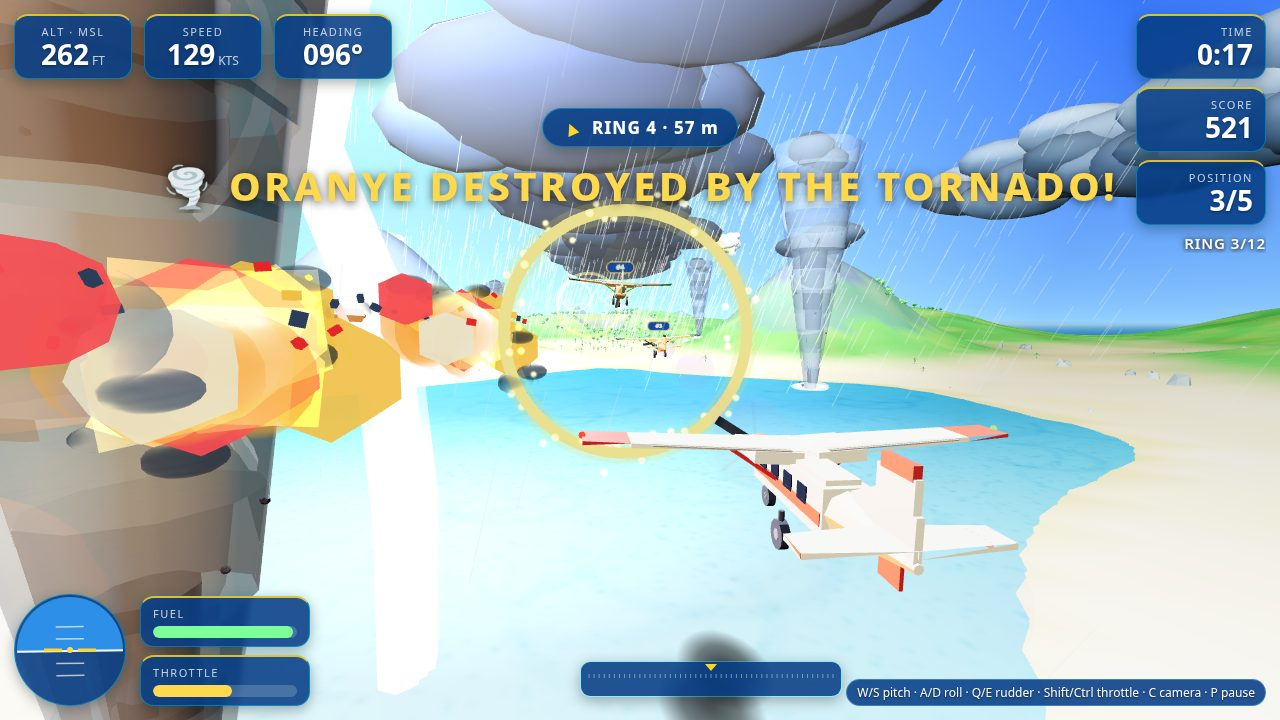
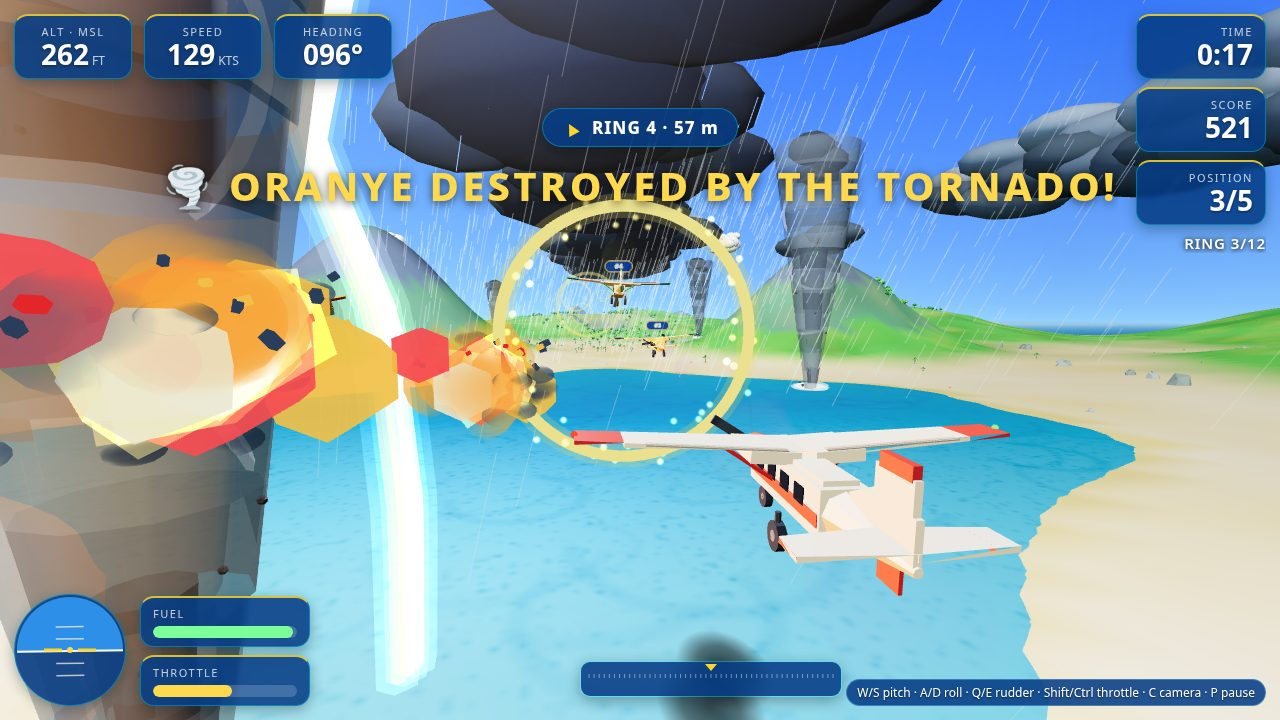
v25: cover shot less bright, lightning dimmed (staging-only flash dim 0.3; yoke/runway/win untouched)

diff --git a/main.ts b/main.ts
@@ -1,5 +1,18 @@
 // Langit Nusantara — Ring Run, a best-flight-game-20261126-0057 entry (Node 22,
-// standard library only). v25-fix: the v25 yoke's bar + hub + red cap never
+// standard library only). v25-cover-fix: the v25-fix cover was too bright —
+// the frozen blast frame holds the staged lightning bolt at PEAK brightness
+// (boltLife never decays once staging stops calling update()), so the 320 m
+// glow sprite at 0.95 + 4000 light read as a white wall covering the scene
+// (ChatGPT v25 cover 7,6: lightning too bright). Fix (storm.js flash() +
+// main.js blast branch, staging only): flash(x, z, dim) scales the bolt — the
+// blast flash runs dimmed at 0.3 (core 0.65, halo 0.105, glow 0.285, light
+// 1200), so the cover now shows a thin soft bolt column and the sea, beach,
+// ring and player plane stay readable; the play/cockpit flashes stay full
+// strength and live play never calls flash(). Framing unchanged (v23 design:
+// fireball left, player plane right). Measured: re-staged cover f00d79aa…
+// (140.573 byte), read directly — thin soft bolt column, no white wash.
+// Headless 39/39, sim-win-autoland 15/15,
+// sim-3tier ALL PASS, entrypoint 2x byte-identical. v25-fix: the v25 yoke's bar + hub + red cap never
 // showed in the cockpit shot — they sat INSIDE the console shelf box (its
 // front face is ~0.10 m ahead of the bar at that height), so the shot read as
 // two separate grips; the first fix (bar to local y -0.055, thicker, shorter

diff --git a/game/src/storm.js b/game/src/storm.js
@@ -786,8 +786,26 @@ export function createStorm(THREE, seed, course, islands, groundAt, effects) {
   // when the screenshot is taken ~700 ms after __shotReady (the
   // staged shot does not call update() after staging, so the bolt
   // does not fade). Live play never calls this.
-  function flash(x, z) {
+  // v25-cover-fix: `dim` (0-1) scales the staged bolt down — the
+  // frozen blast frame holds the bolt at PEAK brightness (the staged
+  // clock stops before boltLife decays), so the full-strength glow
+  // (320 m sprite at 0.95 + 4000 light) reads as a white wall that
+  // washes out the scene. A dimmed flash keeps the zigzag readable
+  // while the glow/light stop covering the environment. Live play
+  // never calls flash(), so live strikes are untouched.
+  // Measured on the cover re-stage (dim 0.3): glow 0.285, light 1200,
+  // core 0.65 — the bolt reads as a thin soft column and the sea,
+  // beach, ring and player plane stay fully readable; no white wash.
+  function flash(x, z, dim) {
     strike(x + 60, z - 40, 1.5);
+    if (dim !== undefined && dim !== 1) {
+      for (const b of bolts) {
+        b.line.material.opacity = 0.5 + 0.5 * dim;
+        b.halo.material.opacity = 0.35 * dim;
+      }
+      boltGlow.material.opacity = 0.95 * dim;
+      boltLight.intensity = 4000 * dim;
+    }
   }
 
   // --- Flak: a burst every STORM.flakEvery seconds on an outer ---

diff --git a/game/src/main.js b/game/src/main.js
@@ -224,7 +224,15 @@ function runShot(name) {
           // 20 s. The blast shot no longer depends on a random strike
           // landing on the kill+0.5 s freeze.
           const nr = course.nextRing();
-          if (nr && storm.flash) storm.flash(nr.x, nr.z);
+          // v25-cover-fix: dimmed flash (0.3) — the frozen blast frame
+          // holds the bolt at peak brightness, and the full-strength
+          // glow washed the cover white (ChatGPT v25: lightning too
+          // bright, a white field covering the scene). The play/cockpit
+          // flashes below stay at full strength.
+          // Measured: the re-staged cover is clearly dimmer — thin soft
+          // bolt column, scene readable, no white wash. Framing left
+          // as the v23 design (fireball left, player plane right).
+          if (nr && storm.flash) storm.flash(nr.x, nr.z, 0.3);
         }
       });
     effects.update(dt);

diff --git a/verification.md b/verification.md
@@ -279,6 +279,17 @@ terpisah.
   (itu tugas koordinator, hanya atas perintah eksplisit pengguna
   per versi).
 
+## What changed in v25-cover-fix (vs v25-fix) — patch di atas commit lokal v25-fix cb7a657 ("v25-fix: yoke U bottom bar visible from cockpit camera")
+
+Perintah pengguna 27 Nov 23:29 WIB: "Berarti harus ada screenshot yang baru yang tidak terlalu terang seperti v24" + tes buta ChatGPT v25 (cover 7,6): petir putih terlalu terang sampai terlihat seperti bidang putih yang menutupi lingkungan; adegan terlalu ramai + pesawat besar kiri terpotong bingkai + pesan "ORANYE DESTROYED BY THE TORNADO!" mendominasi. HANYA cover yang diubah.
+
+- [x] **Penyebab (dari kode, bukan tebakan):** frame blast dibekukan 0,5 dtk setelah kill ORANYE dan staging berhenti memanggil update() sesudahnya — jadi boltLife (1,5 dtk) tidak pernah berkurang dan bolt tertahan di kecerahan PUNCAK saat capture: core opacity 1, halo 0,35, glow sprite 320 m opacity 0,95, boltLight 4000. Glow aditif 320 m itulah dinding putih yang menutupi separuh kiri frame di cover v24/v25. Di live play bolt yang sama hanya hidup 0,35 dtk lalu padam — kecerahan berlebih ini HANYA ada di frame beku staging, bukan cacat storm game.
+- [x] **Perbaikan (storm.js `flash()` + main.js cabang blast, staging saja):** `flash(x, z, dim)` — dim 0-1 menskala bolt hasil strike(): core 0,5+0,5*dim, halo 0,35*dim, glow 0,95*dim, light 4000*dim. Cabang blast memanggil `storm.flash(nr.x, nr.z, 0.3)` → core 0,65, halo 0,105, glow 0,285, light 1200. Cabang play/cockpit tetap `storm.flash(nr.x, nr.z)` tanpa dim (kecerahan penuh, tidak berubah). Live play tidak pernah memanggil flash(), jadi kilat live tidak tersentuh. Framing TIDAK diubah (tetap desain v23: fireball kiri, pesawat pemain kanan, ring tengah) — syarat utama adalah cover tidak terlalu terang; menggeser kamera berisiko mengorbankan keterbacaan ring/pesawat.
+- [x] **Sebelum/sesudah (dibaca sendiri):** v25-fix — kolom putih raksasa menutupi separuh kiri frame, laut/pantai nyaris tak terbaca di balik basuhan putih. v25-cover-fix 1-cover.jpg — basuhan putih HILANG: petir kini kolom putih tipis dan lembut di kiri-tengah, laut biru + pantai + ring 4 emas 57 m + pesawat pemain + fireball + pesan ORANYE + spout tornado + hujan semuanya terbaca jelas. Petir tetap ada (niat v24 dipertahankan: frame menunjukkan kilat di samping ring). Fireball kiri masih menyentuh tepi kiri bingkai (desain v23) — tidak diperbaiki lewat framing, sesuai perintah.
[1 lines of base64/hex data omitted]
+- [x] **4 screenshot v25-cover-fix DIBACA SENDIRI (run 2):** cover 140.573 byte — kolom petir tipis lembut (bukan dinding putih) + fireball kiri + pesawat pemain utuh kanan-tengah + ring 4 emas 57 m + pesan ORANYE + tornado + hujan (komposisi sama dengan v25-fix, hanya kilat yang redup); kokpit 123.295 — U ram's horn utuh (dua grip hitam + batang bawah gelap + hub abu-abu + tutup merah) + 5 dial utuh + petir zigzag + 2 rival + ring 3 (isi sama dengan v25-fix, hanya drift hash); title 99.606 — layar judul FINAL tak tersentuh; landing 109.234 — pinggir aspal tetap simetris kiri/kanan (isi sama dengan v25-fix, hanya drift hash).
+- [x] **Caveat jujur:** (a) Fireball kiri masih menyentuh tepi kiri bingkai — framing sengaja tidak diubah (desain v23); bila pengguna masih keberatan, itu butuh geseran kamera, bukan peredupan. (b) Petir di shot kokpit tetap kecerahan penuh (flash tanpa dim) — sesuai perintah, hanya cover yang diredupkan. (c) Commit LOKAL saja — TIDAK push, TIDAK bundle, TIDAK submit (itu tugas koordinator, hanya atas perintah eksplisit pengguna per versi).
+
 ## What changed in v24 (vs v23) — all patched on top of v23 (already submitted)
 
 Perintah pengguna 27 Nov 20:36 WIB: "Karena sudah bisa submit, dan
